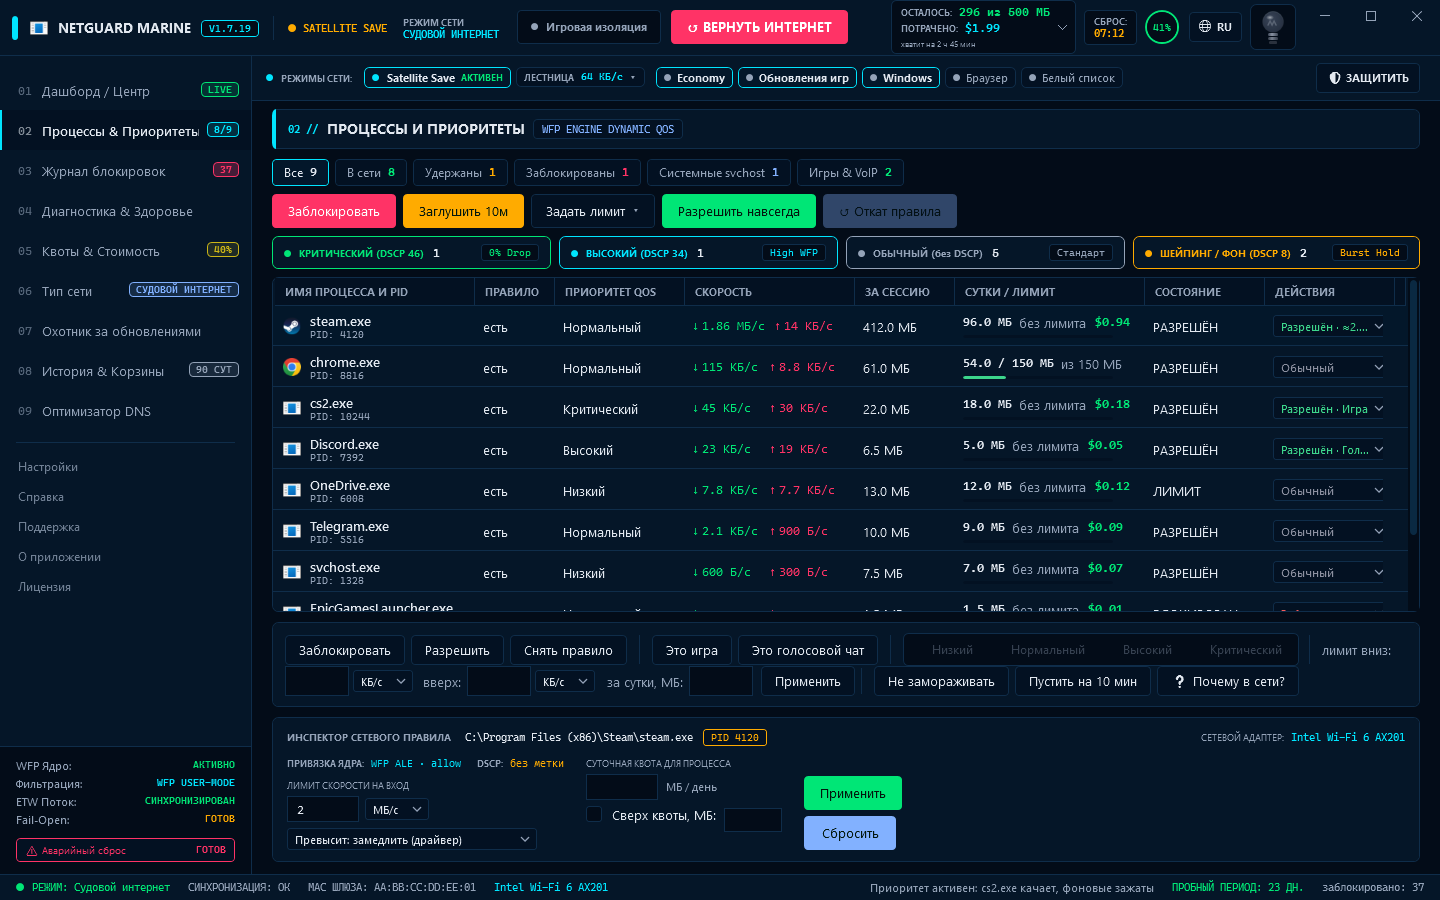
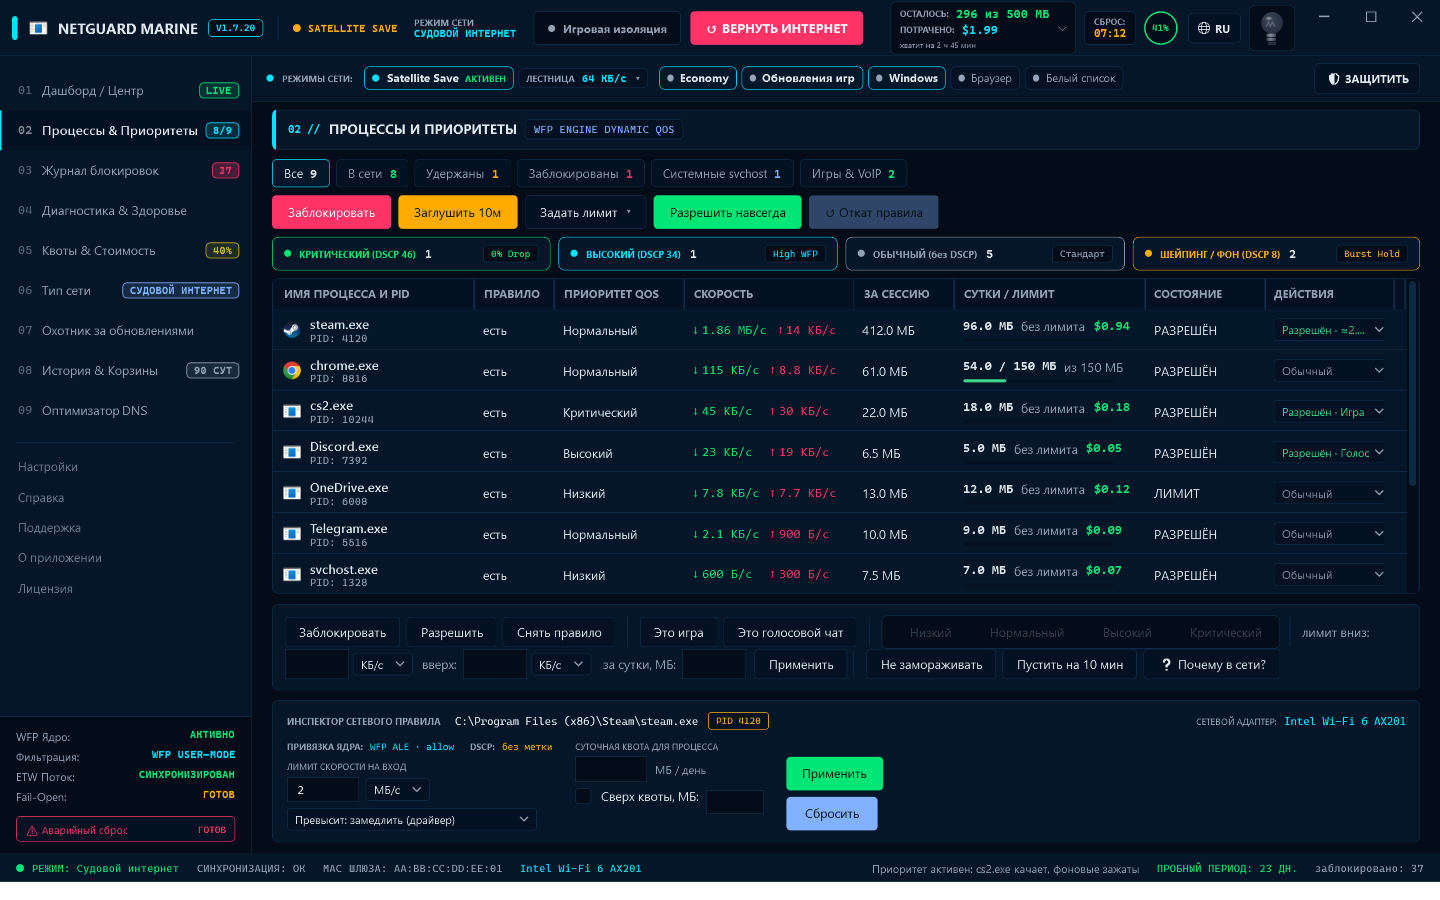
Сайт: 1.7.20, все девять основных экранов на английском / Site: 1.7.20, all nine main screens in English

diff --git a/docs/index.html b/docs/index.html
@@ -214,7 +214,7 @@
       <dt>Does the program go online by itself?</dt>
       <dd>Only for one update check a day, about 10 KB, and you can turn it off. Keys are checked on your computer; there is no telemetry.</dd>
       <dt>Is the interface in English?</dt>
-      <dd>The interface is Russian with an RU/EN switch. Screens are being translated one at a time: the title bar and eight screens are in English now (dashboard, processes, block log, diagnostics, quotas and cost, network type, update hunter, history).</dd>
+      <dd>The interface is Russian with an RU/EN switch. Screens are being translated one at a time: the title bar and all nine main screens are in English now; settings, help and the other pages below them are next.</dd>
       <dt>Can I move the key to another computer?</dt>
       <dd>A key works on one computer. If you replace the computer, write to us on Telegram.</dd>
       <dt>What if it does not suit me?</dt>
